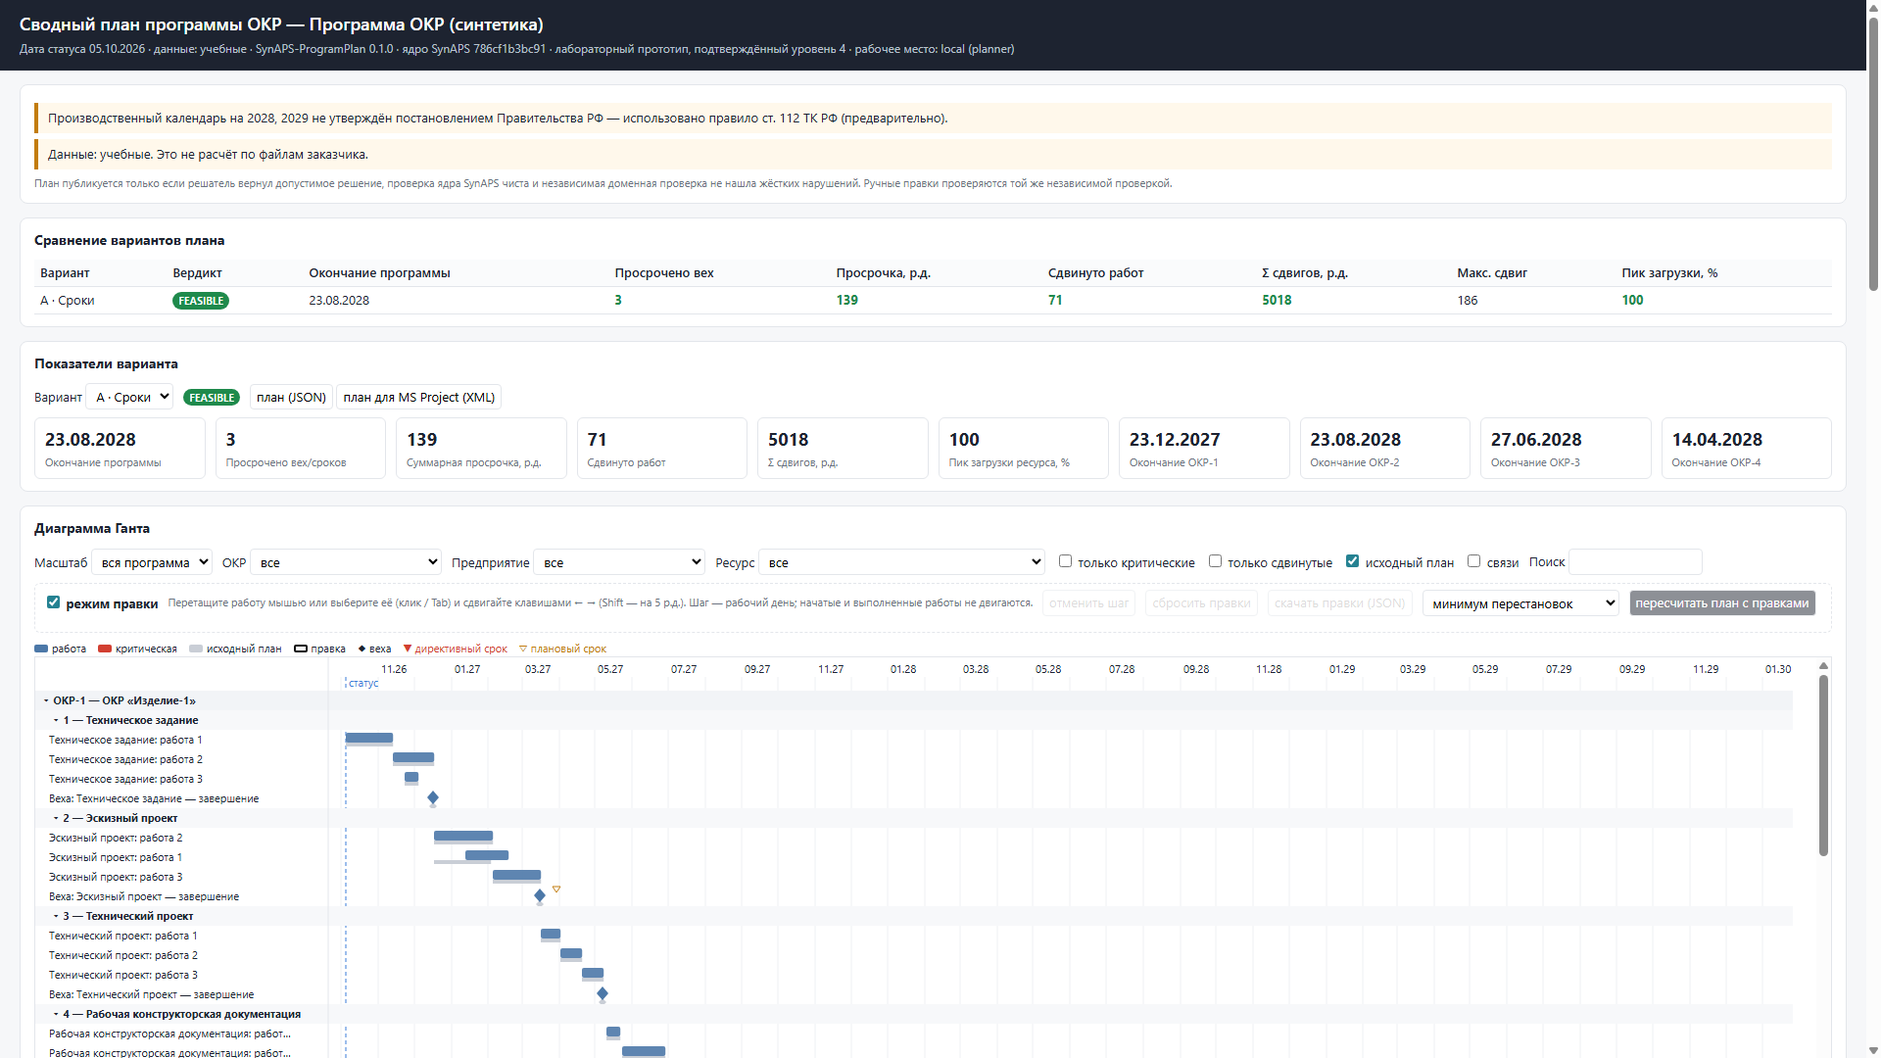
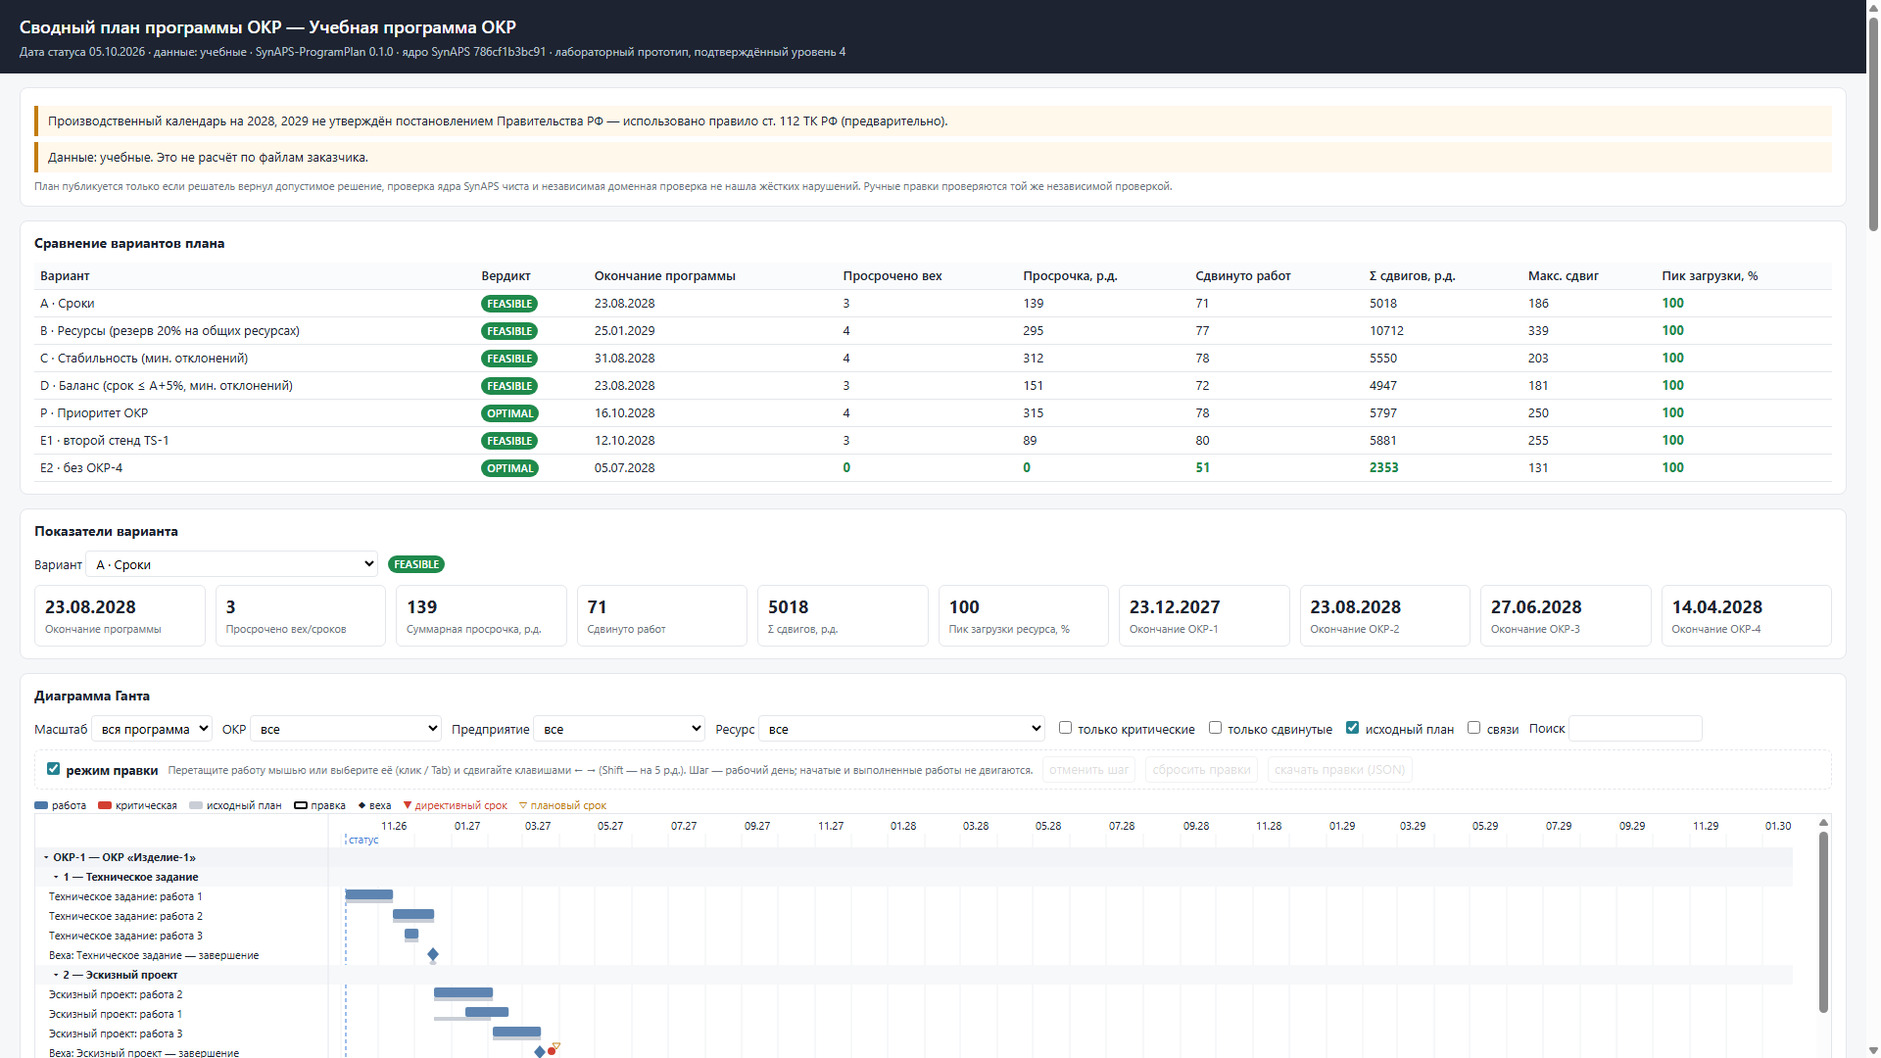
Answer the questions the comparison table invites before the demonstration.
The study programme is named as a study programme. A peak of 100 percent is a full resource, OPTIMAL belongs to that variant's objective, and a reimported MS Project file is one project.

diff --git a/src/synaps_programplan/synthetic.py b/src/synaps_programplan/synthetic.py
@@ -183,7 +183,7 @@ def generate(spec: SyntheticSpec | None = None) -> OKRProgram:
     _cross_links(rng, spec, projects, stage_milestones, tasks, deps)
     program = Program(
         id="prog",
-        name="Программа ОКР (синтетика)",
+        name="Учебная программа ОКР",
         calendar_id="ru",
         horizon_start=spec.start,
         horizon_end=spec.horizon_end,
@@ -304,7 +304,7 @@ def _risk_drivers(draft: OKRProgram) -> list[RiskDriver]:
                     mode=mode,
                     high=high,
                     task_ids=task_ids,
-                    owner="синтетика",
+                    owner="учебный реестр",
                 )
             )
     return drivers

diff --git a/docs/acceptance/demo-script.md b/docs/acceptance/demo-script.md
@@ -26,14 +26,14 @@ SynAPS-ProgramPlan demo --projects 4 --time-limit 8 --risk-runs 40 --out-dir out
 
 ## 0–2 минуты. О чём система
 
-Одна программа из нескольких ОКР. Общие люди и испытательные стенды. План попадает на экран только после двух проверок: решателя и независимой. Сдвиг работы объясняется ресурсом, связью или календарём.
+Одна программа из нескольких ОКР. Общие люди и испытательные стенды. План попадает на экран после трёх условий: решатель нашёл расписание, проверка ядра чиста, независимая проверка тоже чиста. Сдвиг работы объясняется ресурсом, связью или календарём. Просрочка 139 рабочих дней — расхождение с исходными плановыми сроками, когда стенд и человек больше не заняты двумя ОКР в один день.
 
 ## 2–8 минут. Отчёт сверху вниз
 
-1. **Сравнение вариантов.** «Сроки», запас по ресурсам, устойчивость, баланс и приоритет переключаются на диаграмме. «Второй стенд ТС-1» и «без ОКР-4» меняют саму программу, поэтому их полосы на эту диаграмму не наносятся: в списке у них пометка «только в таблице», а цифры влияния — в строке таблицы. На этой сборке просрочка вех у «Сроков» 139 рабочих дней, у второго стенда 89, без ОКР-4 просрочки нет. Окончание программы при этом своё у каждой строки, его читают из таблицы, не из памяти.
+1. **Сравнение вариантов.** «Сроки», запас по ресурсам, устойчивость, баланс и приоритет переключаются на диаграмме. «Второй стенд ТС-1» и «без ОКР-4» меняют саму программу, поэтому их полосы на эту диаграмму не наносятся: в списке у них пометка «только в таблице», а цифры влияния — в строке таблицы. На этой сборке просрочка вех у «Сроков» 139 рабочих дней, у второго стенда 89, без ОКР-4 просрочки нет. Окончание программы при этом своё у каждой строки, его читают из таблицы, не из памяти. Пик загрузки 100 % значит, что самый занятый ресурс в какой-то день выбран целиком. Принятый план с перегрузкой сверх ёмкости на экран не попадает. Вердикт `OPTIMAL` у «Приоритета» и у «без ОКР-4» — оптимум по цели этого варианта. У «Сроков» вердикт `FEASIBLE`: план принят, за 8 секунд доказательство, что короче нельзя, не завершилось.
 2. **Диаграмма.** Заголовок ОКР сворачивает ветку. Список «Предприятие» оставляет одну площадку. «Только критические» и «исходный план» показывают, что сдвинулось относительно исходных дат. У вехи с оценкой P80 зелёная точка — P80 не позже срока, красная — позже.
 3. **Почему работы перенесены.** В строке причина и цепочка до первопричины: связь, общий стенд или человек, отпуск, ремонт.
-4. **Конфликты исходных планов.** Это снимок до выравнивания: перегрузка и общий стенд видны раньше, чем построен сводный план.
+4. **Конфликты исходных планов.** Это снимок до выравнивания. На этой сборке: 5 споров за общий ресурс, 13 перегрузок пулов специалистов, 2 разорванные связи, 2 срока под угрозой.
 5. **Риск.** P80 окончания программы по принятому плану — 09.03.2029. Карточка «все директивные сроки соблюдены, 100 % выборок» говорит о жёстких сроках. Просрочка 139 рабочих дней в таблице сверху — это плановые сроки. Сильнее всего P80 сдвигают повторные испытания после отказа на стенде: 40 рабочих дней. Это разброс уже построенного плана, не отдельный робастный расчёт.
 
 ## 8–11 минут. Невыполнимый срок
@@ -49,7 +49,7 @@ SynAPS-ProgramPlan export out/demo/program.json out/demo/plan_A.json --out out/d
 SynAPS-ProgramPlan import out/demo/plan.xml --codes demo --strict --out out/demo/imported.json
 ```
 
-Первая команда пишет только принятый план: даты, связи, ресурсы, директивный срок, базовый план 0 и хеш в примечании. Вторая с `--strict` завершается кодом 0. В примечаниях будет, что «Инженер-конструктор 1» и «Инженер-конструктор 2» похожи и не слиты: без строки в таблице соответствий одноимённые люди остаются разными. Это действие `info`, импорт оно не останавливает.
+Первая команда пишет только принятый план: даты, связи, ресурсы, директивный срок, базовый план 0 и хеш в примечании. Вторая с `--strict` завершается кодом 0. Файл MS Project — один проект: четыре ОКР в нём суммарные задачи, предприятия в этот формат не пишутся и при обратном чтении не восстанавливаются. В примечаниях будет, что «Инженер-конструктор 1» и «Инженер-конструктор 2» похожи и не слиты: без строки в таблице соответствий одноимённые люди остаются разными. Это действие `info`, импорт оно не останавливает.
 
 Файл с ограничением «как можно позже», которое контур не переносит:
 

diff --git a/README.md b/README.md
@@ -102,7 +102,7 @@ SynAPS-ProgramPlan serve out/demo/program.json out/demo/plan_A.json out/demo/pla
 
 Открыть оба HTML заранее. Порядок экрана и команды обмена с MS Project — в [сценарии показа](docs/acceptance/demo-script.md). Повторный запуск с другим лимитом времени даст другой план: для показа держат файлы, собранные этой командой.
 
-На этой сборке вариант «Сроки» принят: окончание программы 23.08.2028, просрочка вех 139 рабочих дней, сдвинуто 71 работа. P80 окончания программы — 09.03.2029. Второй стенд и программа без одной ОКР стоят в таблице сравнения: они посчитаны на изменённой программе, и их полосы на диаграмму исходной программы не наносятся. В списке у них пометка «только в таблице». На странице невыполнимого срока одно требование — директивная дата вехи испытаний ОКР-4, 14.12.2027.
+На этой сборке вариант «Сроки» принят: окончание программы 23.08.2028, просрочка вех 139 рабочих дней, сдвинуто 71 работа. Просрочка считается от плановых сроков. Пик 100 % — самый занятый ресурс выбран целиком, перегрузка сверх ёмкости в принятый план не попадает. Вердикт `OPTIMAL` относится к цели своего варианта: у «Сроков» за отведённые 8 секунд это `FEASIBLE`. P80 окончания программы — 09.03.2029, и это директивные сроки в выборке риска, не те же 139 дней. Второй стенд и программа без одной ОКР стоят в таблице сравнения: они посчитаны на изменённой программе, и их полосы на диаграмму исходной программы не наносятся. В списке у них пометка «только в таблице». На странице невыполнимого срока одно требование — директивная дата вехи испытаний ОКР-4, 14.12.2027.
 
 ## Рабочий цикл
 

diff --git a/CHANGELOG.md b/CHANGELOG.md
@@ -16,6 +16,7 @@
 - Противоречие максимальных задержек проверяется и тогда, когда в графе связей уже есть цикл. Имена в отчёте не могут закрыть блок данных. Чужой адрес вычислительного HTTP без HTTPS получает отказ, даже с токеном. Сверх предела ресурсов, горизонта, исключений календаря или драйверов риска программа не принимается.
 - У работы можно указать изделие, конфигурацию и опытный экземпляр. Экземпляр занимает ресурс ёмкости 1, поэтому два его испытания не идут одновременно. Команда `ask` по умолчанию выключена: при заданных ключе и каталоге Yandex Cloud она составляет записку только из фактов принятого плана и отбрасывает фразу без такой ссылки.
 - Выгрузка принятого плана пишет начало и конец горизонта. Обратный импорт этого файла снова проходит проверку: дата статуса остаётся внутри горизонта. Вариант, посчитанный на изменённой программе (второй стенд, снятая ОКР), в отчёте остаётся в таблице сравнения и не рисуется на диаграмме исходной программы.
+- Учебная программа в показе называется «Учебная программа ОКР». Пик 100 % в таблице — ресурс выбран целиком, не перегрузка. Вердикт `OPTIMAL` относится к цели своего варианта.
 
 ### Риск срыва (F3)
 

diff --git a/README.en.md b/README.en.md
@@ -102,7 +102,7 @@ The command above writes `out/demo` (the directory is not in git):
 
 Open both HTML files before the meeting. The order of the screens and the MS Project round trip are in the [demonstration script](docs/acceptance/demo-script.md) (Russian). Running the command again with a different time limit produces a different plan: keep the files built by this command.
 
-On this build the Deadlines alternative is accepted: programme finish 23 August 2028, milestone tardiness 139 working days, 71 tasks moved. The P80 of the programme finish is 9 March 2029. A second stand and a programme without one project appear in the comparison table: they were solved on a changed programme, so their bars are not drawn on the chart of the original one. The menu marks them «только в таблице». The infeasible page names one requirement: the mandated date of project 4's certification milestone, 14 December 2027.
+On this build the Deadlines alternative is accepted: programme finish 23 August 2028, milestone tardiness 139 working days, 71 tasks moved. Tardiness is against the planned dates. A peak of 100% means the busiest resource is fully used on some day; a plan that exceeds capacity is not shown. `OPTIMAL` is optimality for that alternative's own objective. Deadlines itself is `FEASIBLE`: eight seconds were not enough to prove nothing shorter exists. The P80 of the programme finish is 9 March 2029. That figure is about mandated dates in the risk sample, not the same 139 days. A second stand and a programme without one project appear in the comparison table: they were solved on a changed programme, so their bars are not drawn on the chart of the original one. The menu marks them «только в таблице». The infeasible page names one requirement: the mandated date of project 4's certification milestone, 14 December 2027.
 
 ## The working cycle
 
